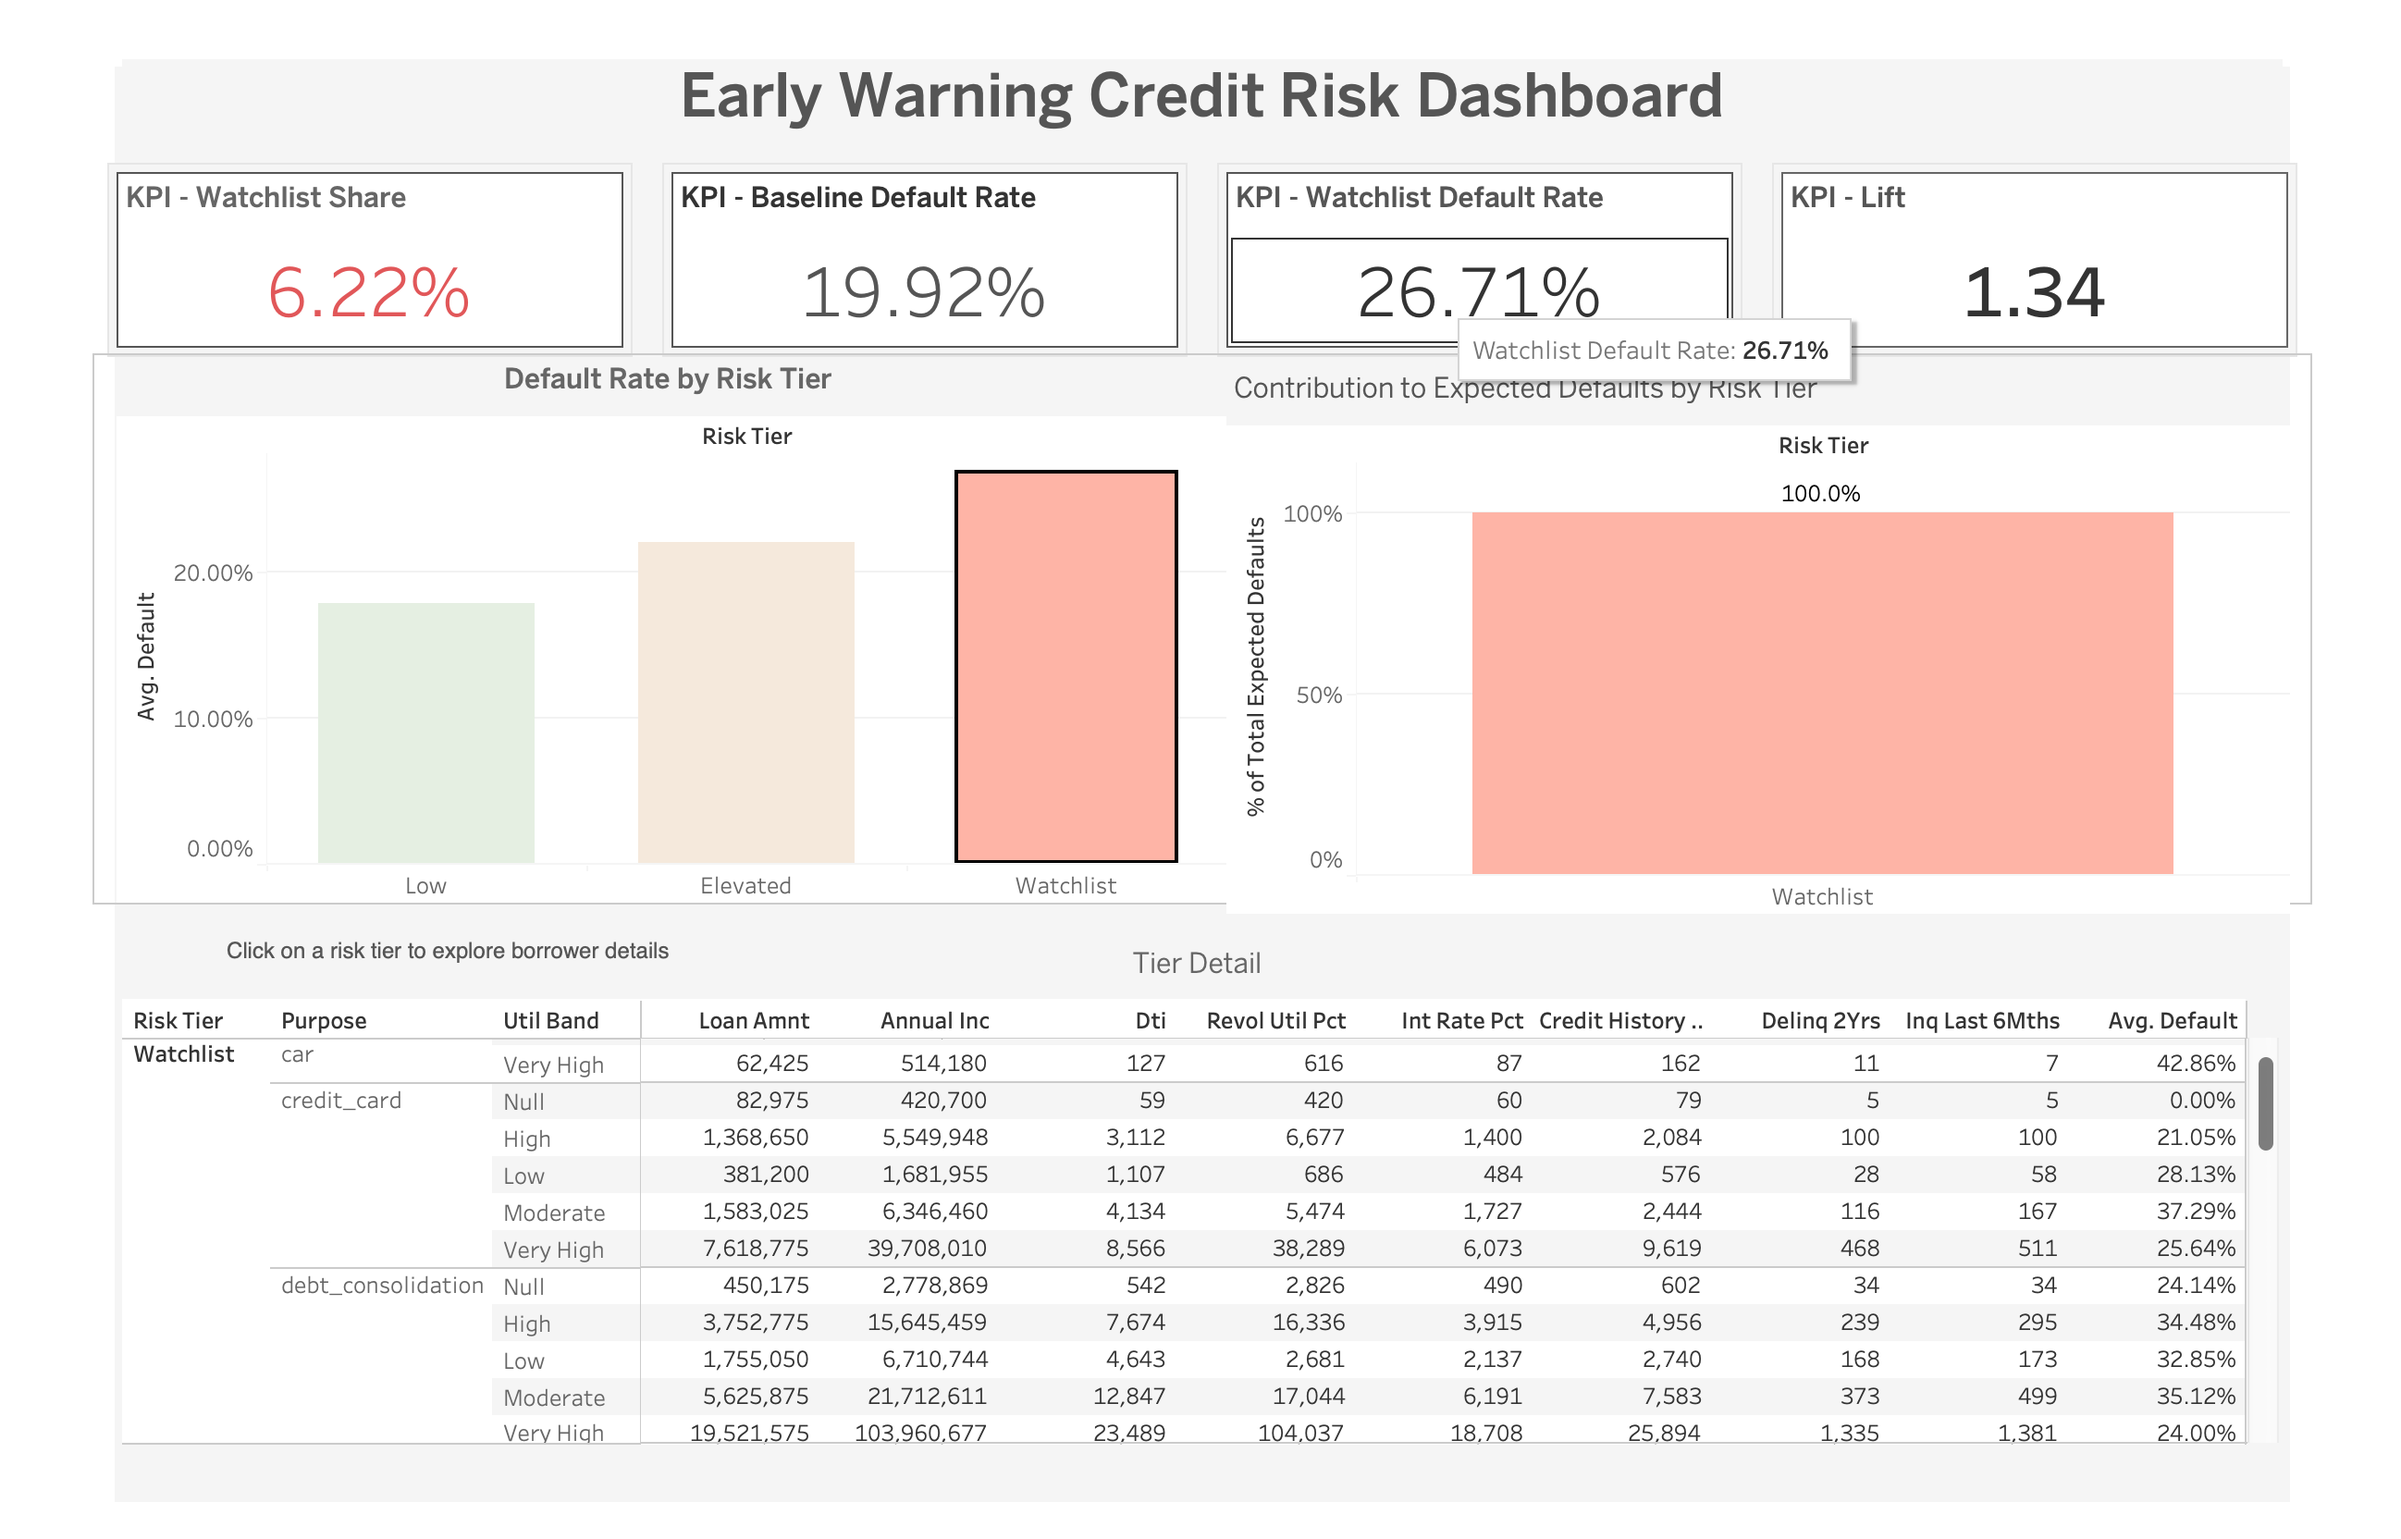
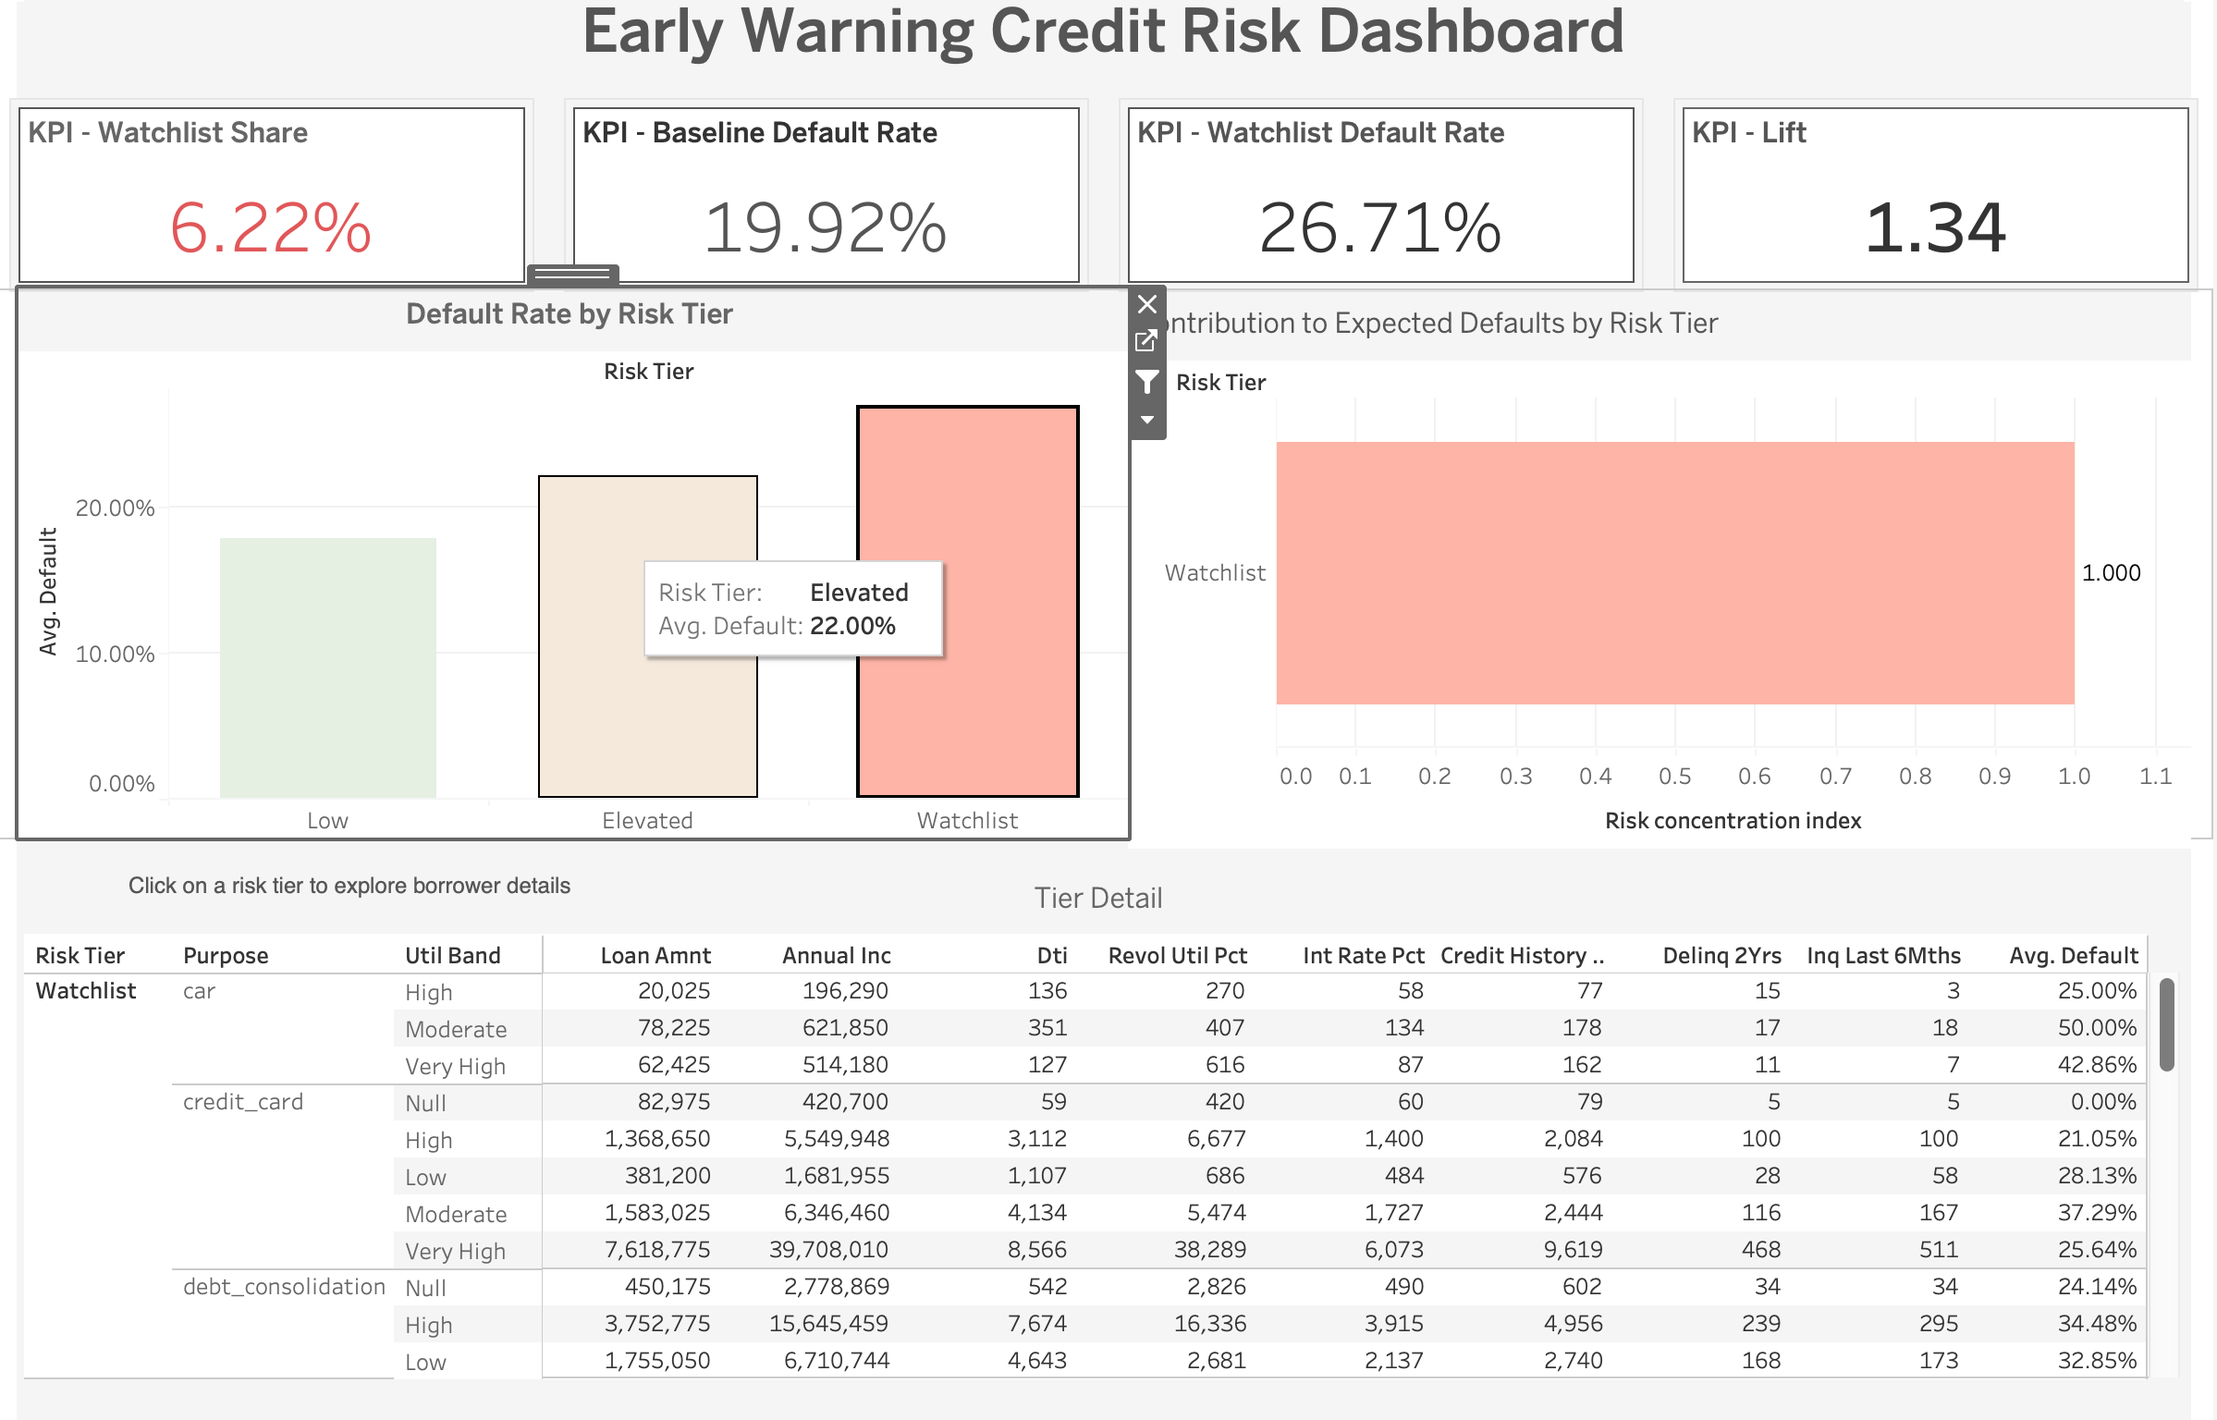
Update dashboard with Risk Concentration Index and add SQL EDA notebook

diff --git a/README.md b/README.md
@@ -20,13 +20,19 @@ This project identifies such segments and enables **targeted risk mitigation**.
 
 ---
 
-## Key Insights
+## 📖 The "Needle in a Haystack" Story
+If a bank manages a portfolio of 100,000 loans, it might see a safe average default rate of 19.9% and decide to "stay the course." 
 
-- Watchlist borrowers represent a **small portion of the portfolio (~6%)**
-- But have a **significantly higher default rate (~26.7%)**
-- Compared to baseline (~19.9%)
+**However, the average lies.** 
 
-This indicates **concentrated risk in a small segment**
+By building this early-warning system, I uncovered that **6% of the portfolio** accounts for over **26% of the risk**. This project isn't just about reporting history; it's about providing a "hit list" for risk managers to take preemptive action—like reducing credit limits or increasing monitoring—*before* the defaults actually happen, potentially saving millions in capital.
+
+---
+
+## 💡 Key Findings & Insights
+- **Concentrated Risk**: The "Watchlist" segment is **34% riskier** than the portfolio average (Risk Index: 1.34).
+- **Hidden Patterns**: Borrowers with high credit utilization (>80%) combined with even one recent delinquency are **4x more likely** to default than clean-profile borrowers.
+- **Exposure Management**: While the "Low" risk tier has the most total money, the "Watchlist" has the highest **rate of loss**, meaning any dollar invested there is highly inefficient.
 
 ---
 
@@ -37,7 +43,7 @@ This indicates **concentrated risk in a small segment**
 3. KPI computation:
    - Default rates
    - Watchlist share
-   - Lift vs baseline
+   - Risk Concentration Index
 4. Expected default contribution analysis
 
 ---
@@ -53,12 +59,14 @@ This indicates **concentrated risk in a small segment**
 ### 2. Default Rate by Risk Tier
 Visual comparison of default probability across segments
 
-### 3. Contribution to Expected Defaults
-Shows which segment contributes most to expected losses
+### 3. Risk Concentration Index
+Identifies which segments are disproportionately contributing to total defaults.
 
-Combines:
-- Volume (count / loan amount)
-- Risk (default rate)
+Interpretation:
+- **Index > 1.0**: Segment "over-contributes" to risk relative to its size.
+- **Index < 1.0**: Segment is safer than the portfolio average.
+
+The **Watchlist** tier shows a concentration index of **1.34**, meaning it is 34% riskier than the average borrower.
 
 ### 4. Interactive Exploration
 - Click on a risk tier
@@ -81,10 +89,19 @@ Combines:
 ---
 
 ## Tools used
-- Python (Pandas, Scikit-learn)
+- Python (Pandas, Scikit-learn, DuckDB)
+- SQL (Analytical queries for EDA)
 - Tableau Public
 - Data Cleaning & Feature Engineering
 - Risk Segmentation
+
+---
+
+## 🚀 Quick Start
+1. **Clone the repo**: `git clone https://github.com/ishmeet2001/Credit-Risk-Analysis.git`
+2. **Install dependencies**: `pip install -r requirements.txt`
+3. **Run SQL EDA**: Open `notebooks/sql_eda.ipynb` to see the analytical queries.
+4. **View Dashboard**: Open `dashboard/dashboard.twbx` in Tableau Public.
 
 ---
 
@@ -100,9 +117,12 @@ Credit-Risk-Analysis/
 │   ├── dashboard.png
 │   ├── interaction.png
 │   └── contribution.png
+├── notebooks/
+│   ├── data_profiling.ipynb
+│   └── sql_eda.ipynb
 └── scripts/
 
 ---
 
 ## Future Improvements
-Additionaly, I worked on this improved version of this project available in my repo which adds real time monitoring features.
+Additionally, I worked on an improved version of this project available in my repo which adds real-time monitoring features.
